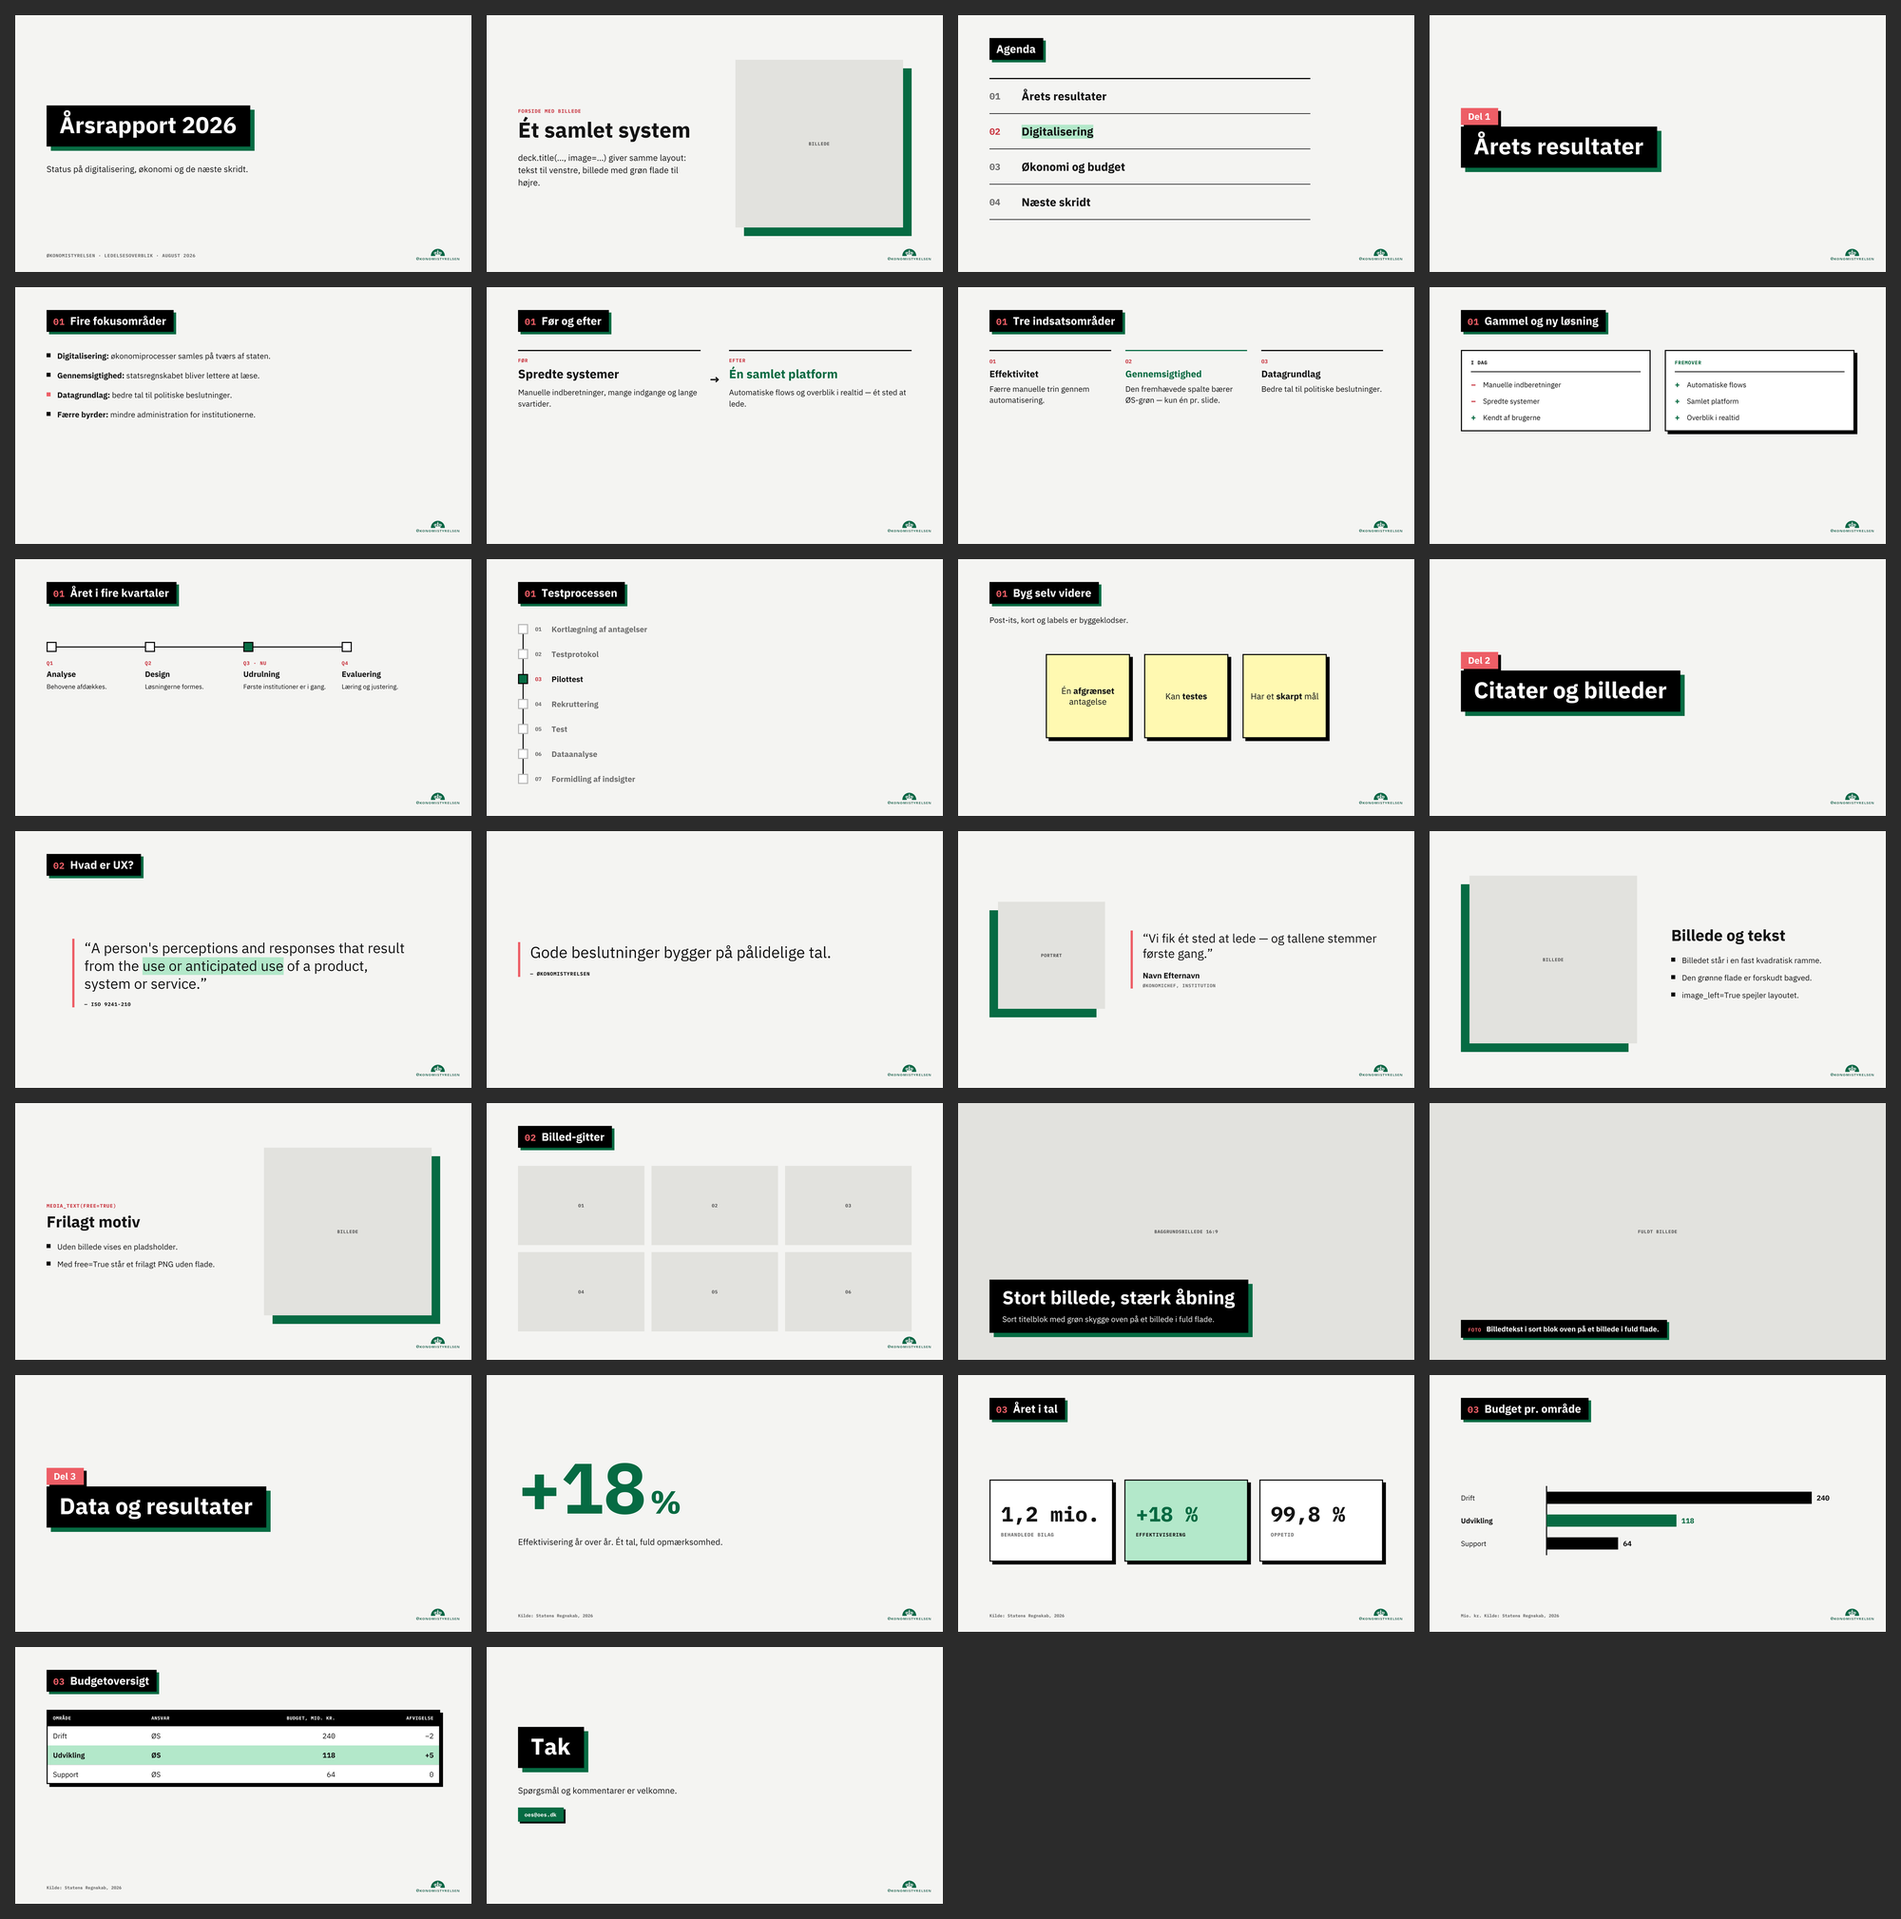
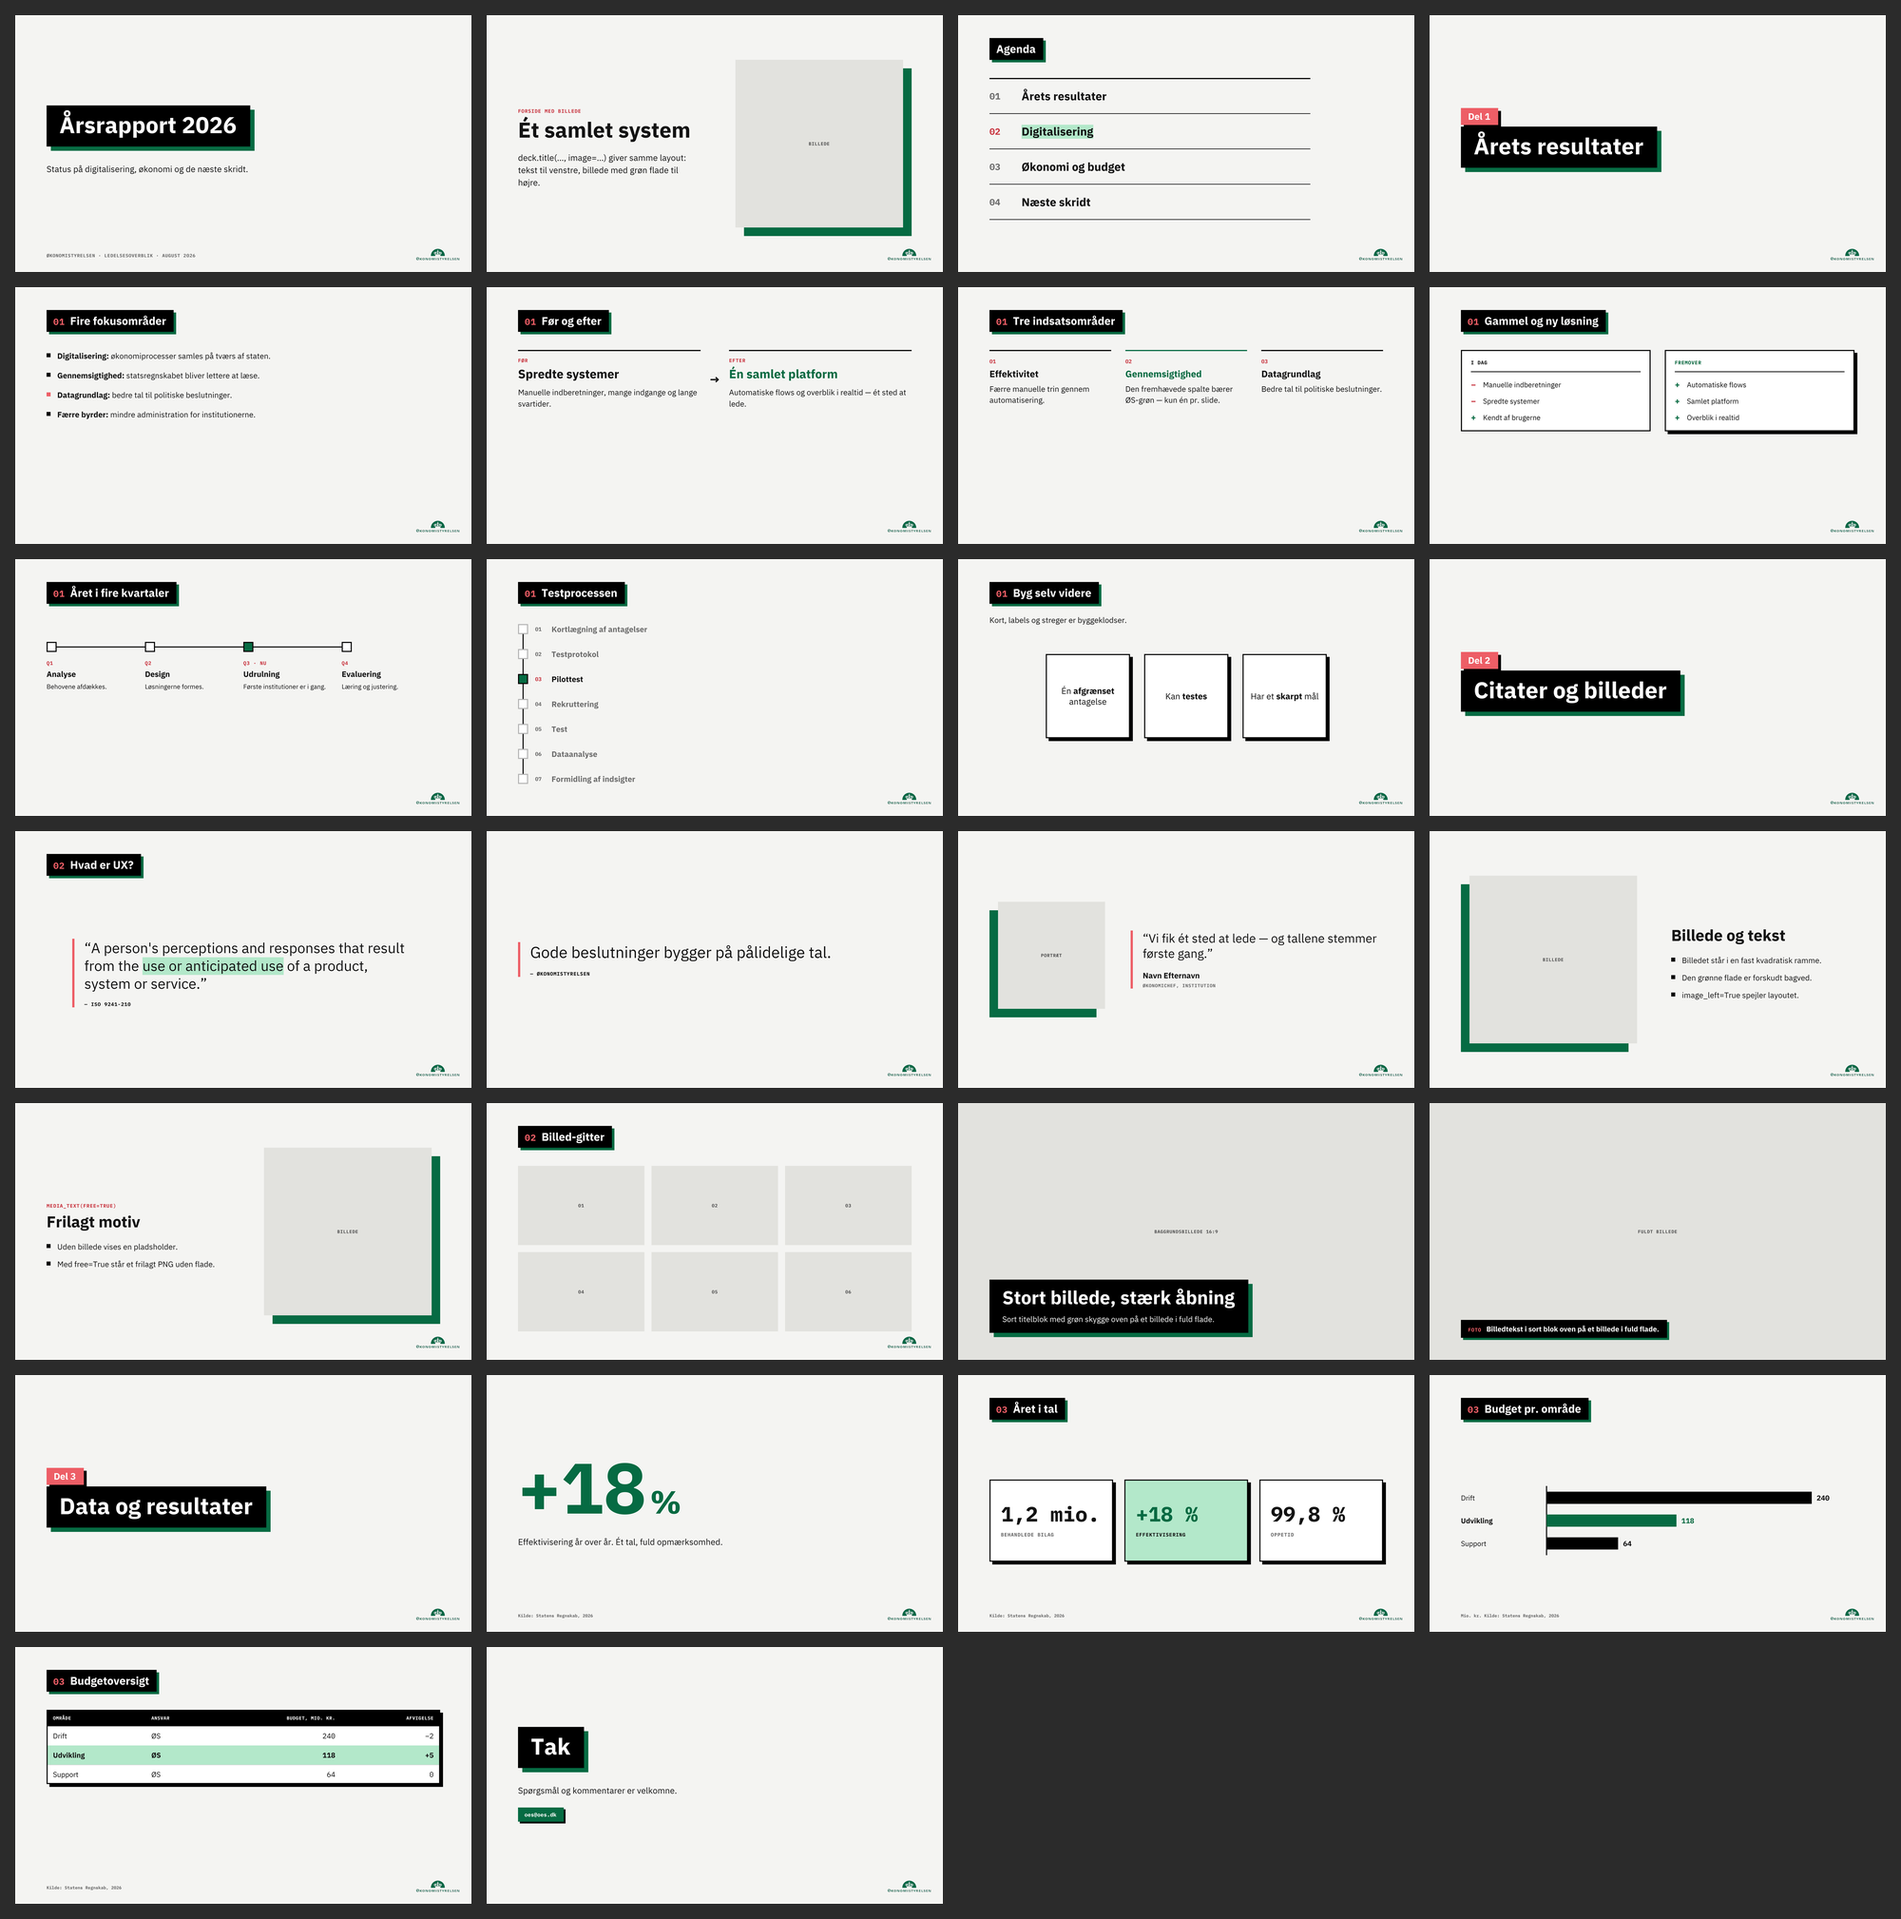
Fjern post-its: byggeklods, farve-token og galleri-eksempel
Galleriets 'Byg selv videre'-slide viser nu hvide kort i stedet.

Changed region(s): [[0.527, 0.3122, 0.713, 0.4058]]

diff --git a/template.html b/template.html
@@ -133,14 +133,14 @@
         </ol>
       </section>
 
-      <!-- 11. BYG SELV — titel + forklaring + byggeklodser (post-its, kort, chips) -->
+      <!-- 11. BYG SELV — titel + forklaring + byggeklodser (kort, chips) -->
       <section class="slide slide--content">
         <h2 class="slide-title">Byg selv videre</h2>
-        <p class="sub">Post-its, kort og labels er byggeklodser.</p>
+        <p class="sub">Kort, labels og streger er byggeklodser.</p>
         <div style="display:flex; gap:40px; justify-content:center; margin-top:20px">
-          <div class="sticky"><span>Én <strong>afgrænset</strong> antagelse</span></div>
-          <div class="sticky"><span>Kan <strong>testes</strong></span></div>
-          <div class="sticky"><span>Har et <strong>skarpt</strong> mål</span></div>
+          <div class="card" style="width:236px; height:236px; padding:21px; display:flex; align-items:center; justify-content:center; text-align:center; font-size:24px; line-height:1.25"><span>Én <strong>afgrænset</strong> antagelse</span></div>
+          <div class="card" style="width:236px; height:236px; padding:21px; display:flex; align-items:center; justify-content:center; text-align:center; font-size:24px; line-height:1.25"><span>Kan <strong>testes</strong></span></div>
+          <div class="card" style="width:236px; height:236px; padding:21px; display:flex; align-items:center; justify-content:center; text-align:center; font-size:24px; line-height:1.25"><span>Har et <strong>skarpt</strong> mål</span></div>
         </div>
       </section>
 

diff --git a/slides.css b/slides.css
@@ -30,7 +30,6 @@
   --hilite: #b3e8ca;            /* lysegrøn: overstregning, fremhævet række/kort */
   --laks: #ed5e66;              /* signal på store flader og på sort */
   --laks-text: #c93a44;         /* laks til tekst på lys grund (4,6:1) */
-  --sticky: #fff9b1;            /* post-it */
 
   --font-sans: 'IBM Plex Sans', system-ui, -apple-system, sans-serif;
   --font-mono: 'IBM Plex Mono', 'SFMono-Regular', Menlo, monospace;
@@ -188,18 +187,6 @@ mark, .hl { background: var(--hilite); color: inherit; padding: 0 0.08em; }
   background: var(--paper);
   border: var(--border) solid var(--black);
   box-shadow: var(--shadow) var(--shadow) 0 var(--black);
-}
-
-/* Post-it */
-.sticky {
-  background: var(--sticky);
-  border: var(--border) solid var(--black);
-  box-shadow: var(--shadow) var(--shadow) 0 var(--black);
-  width: 236px; height: 236px;
-  padding: 21px;
-  display: flex; align-items: center; justify-content: center;
-  text-align: center;
-  font-size: 24px; line-height: 1.25;
 }
 
 /* Kilde-/note-linje nederst til venstre. Virker på enhver slide. */

diff --git a/build_pptx.py b/build_pptx.py
@@ -23,7 +23,7 @@ Brug:
     deck.save("mit-deck.pptx", preview_dir="preview")   # preview_dir er valgfri
 
 Mangler der en slide-type: brug deck.content("Titel") og tegn selv fra
-CONTENT_TOP med byggeklodserne (card, block, chip, square_list, sticky,
+CONTENT_TOP med byggeklodserne (card, block, chip, square_list, picture,
 s.rect/s.line/s.text/s.media) — eller tilføj en ny metode her i samme stil.
 """
 import math
@@ -43,7 +43,6 @@ DIM = "6E6E6E"          # nedtonet tekst, stadig læsbar (4,6:1 på grunden)
 HILITE = "B3E8CA"       # lysegrøn: overstregning, fremhævet række/kort
 RULE = "D6D6D6"         # tynde indre delelinjer
 EMPTY = "E2E2DE"        # billed-pladsholder
-STICKY = "FFF9B1"       # post-it
 BORDER = 3              # kantbredde
 SHADOW = 8              # hård skygge
 GAP = 40                # luft mellem spalter
@@ -152,14 +151,6 @@ def square_list(s, x, y, w, items, gap=18, lh=1.4, size=S_BODY, accent_index=Non
 
 def list_height(w, items, gap=18, lh=1.4, size=S_BODY):
     return sum(layout([para(*rich(it, size), lh=lh)], w - 30)[1] for it in items) + gap * max(len(items) - 1, 0)
-
-
-def sticky(s, x, y, size_px, text, text_size=S_LEAD, off=6):
-    """Post-it med sort kant og hård skygge. text: str, tuple eller liste af run()."""
-    card(s, x, y, size_px, size_px, fill=STICKY, off=off, name="Post-it")
-    inset = size_px * 0.09
-    s.text(x + inset, y + inset, size_px - 2 * inset, size_px - 2 * inset,
-           [para(*rich(text, text_size), align="ctr", lh=1.25)], anchor="ctr")
 
 
 def picture(s, image, x, y, w, h, side=None, focus=(0.5, 0.5), alt="", label="Billede", fit="cover"):

diff --git a/deck.example.py b/deck.example.py
@@ -9,7 +9,7 @@ ud fra indholdet: vælg de slide-typer fortællingen kræver, i din rækkefølge
 import os
 import sys
 
-from build_pptx import CONTENT_TOP, GAP, W, Deck, body, sticky
+from build_pptx import CONTENT_TOP, GAP, W, Deck, body, card, para
 
 HERE = os.path.dirname(os.path.abspath(__file__))
 deck = Deck(deck_title="Økonomistyrelsen · Galleri")
@@ -95,10 +95,13 @@ deck.process(
 )
 
 # Egne layouts: deck.content("Titel") + byggeklodserne. sub = forklaring under titlen.
-s = deck.content("Byg selv videre", sub="Post-its, kort og labels er byggeklodser.")
+s = deck.content("Byg selv videre", sub="Kort, labels og streger er byggeklodser.")
 for i, parts in enumerate((("Én ", "afgrænset", " antagelse"), ("Kan ", "testes", ""), ("Har et ", "skarpt", " mål"))):
-    runs = [body(t, 24, bold=(j == 1)) for j, t in enumerate(parts) if t]
-    sticky(s, W / 2 - 236 * 1.5 - GAP + i * (236 + GAP), CONTENT_TOP + 90, 236, runs, off=8)
+    x = W / 2 - 236 * 1.5 - GAP + i * (236 + GAP)
+    card(s, x, CONTENT_TOP + 90, 236, 236)
+    s.text(x + 21, CONTENT_TOP + 111, 194, 194,
+           [para(*[body(t, 24, bold=(j == 1)) for j, t in enumerate(parts) if t], align="ctr", lh=1.25)],
+           anchor="ctr")
 
 # ---- Del 2: citater og billeder ----
 deck.section("Citater og billeder", num="02")

diff --git a/verify.py b/verify.py
@@ -325,7 +325,7 @@ def check_parity():
               "css %gpx  vs  pptx %gpx" % (pad, bp.TITLE_PAD[1]))
 
     for css_name, py_name in (("ground", "GROUND"), ("brand", "BRAND"), ("hilite", "HILITE"), ("laks", "LAKS"),
-                              ("laks-text", "LAKS_TEXT"), ("dim", "DIM"), ("ink", "INK"), ("sticky", "STICKY"),
+                              ("laks-text", "LAKS_TEXT"), ("dim", "DIM"), ("ink", "INK"),
                               ("empty", "EMPTY"), ("rule", "RULE")):
         got = _css_color(css, css_name)
         check("paritet: farven --%s" % css_name, got == getattr(bp, py_name),

diff --git a/PRESENTATIONS.md b/PRESENTATIONS.md
@@ -52,7 +52,6 @@ flade forskudt bagved, IBM Plex Sans til indhold og IBM Plex Mono til alt "syste
 | `HILITE` | `#B3E8CA` | Lysegrøn overstregning i tekst, fremhævet tabelrække / nøgletalskort |
 | `LAKS` | `#ED5E66` | Signal på **store flader og på sort**: kapitel-label, citatstreg, delnummer i titelblokken |
 | `LAKS_TEXT` | `#C93A44` | Laks til **tekst på lys grund**: mono-labels, numre, negative tal (`LAKS` har kun 3:1 der) |
-| `STICKY` | `#FFF9B1` | Kun post-its |
 
 - **Grøn er det fremhævede, laks er systemets stemme.** Fremhæv højst ét element pr. slide.
 - Gul bruges ikke længere som fremhævning (den gamle `#FEF3C7`) — brug `HILITE`.
@@ -167,11 +166,11 @@ brugerens egne. Har du kun tal uden kilde, så spørg efter kilden.
 
 ## Byg selv — byggeklodserne
 
-Når ingen slide-type passer (diagrammer, modeller, post-it-øvelser):
+Når ingen slide-type passer (diagrammer, modeller):
 
 ```python
 from build_pptx import (Deck, CONTENT_TOP, CONTENT_BOT, PAD_X, W, BLACK, BRAND, LAKS_TEXT, DIM, INK,
-                        card, block, chip, chip_w, square_list, sticky, picture,
+                        card, block, chip, chip_w, square_list, picture,
                         mono, num, head, body, para)
 
 s = deck.content("Double Diamond")            # titelblok + tom flade fra CONTENT_TOP
@@ -181,7 +180,6 @@ s.ellipse(x, y, w, h, fill=BRAND, line=BLACK, lw=3)
 s.text(x, y, w, h, [para(mono("Label", 12, DIM), align="ctr")])
 chip(s, x, y, "Problem")                      # lille sort label
 card(s, x, y, w, h)                           # hvid boks, sort kant, hård skygge
-sticky(s, x, y, 236, [body("Er "), body("nem", bold=True), body(" at bruge")])
 square_list(s, x, y, w, ["Punkt 1", ("Fed: ", "resten")])
 picture(s, "foto.jpg", x, y, w, h, side="right", alt="…")             # med grøn flade
 ```
@@ -212,7 +210,7 @@ i hver genereret .pptx** (som EOT — en rå TTF giver fejl i PowerPoints font-d
 ## Don'ts
 
 - ❌ Ingen grøn accent-streg under overskrifter (den gamle stil) — titlen *er* blokken.
-- ❌ Ingen grønne eller sorte helflade-slides. Ingen gule flader (kun post-its).
+- ❌ Ingen grønne eller sorte helflade-slides. Ingen gule flader.
 - ❌ Ingen kant om billeder, ingen blur-skygger, ingen gradienter, ingen runde hjørner.
 - ❌ Ingen eyebrow/kicker over en titelblok. (Over en *fri* overskrift ved et billede er den fin.)
 - ❌ Ikke to titelblokke på én slide, og ikke titelblok + billede med grøn flade i `media_text`.

diff --git a/CLAUDE.md b/CLAUDE.md
@@ -37,9 +37,9 @@ De er kodet ind i `build_pptx.py` og `slides.css`. **Brug metoderne — placér 
 - ❌ Lav ikke en kopi af galleriet med samme slides og rækkefølge. Brug ikke alle typer.
 - ✅ Start fra indholdet: find budskabet og fortællingen, og vælg derudfra hvilke typer,
   hvor mange slides og hvilken rækkefølge.
-- ✅ **Opfind nye layouts** når indholdet kræver det (diagrammer, modeller, post-it-øvelser):
+- ✅ **Opfind nye layouts** når indholdet kræver det (diagrammer, modeller):
   `s = deck.content("Titel")` og tegn fra `CONTENT_TOP` med byggeklodserne (`card`, `block`,
-  `chip`, `square_list`, `sticky`, `picture`, `s.line/rect/ellipse/path/text`). Se afsnittet
+  `chip`, `square_list`, `picture`, `s.line/rect/ellipse/path/text`). Se afsnittet
   "Byg selv" i `PRESENTATIONS.md`.
 - ✅ Byg modeller op slide for slide (samme layout, ét nyt element) i stedet for animation.
 

diff --git a/README.md b/README.md
@@ -37,7 +37,7 @@ kan tjekkes uden PowerPoint. `save()` advarer, hvis tekst ikke kan være i sin b
 
 | Fil | Hvad |
 |---|---|
-| `build_pptx.py` | **Stilen:** tokens, byggeklodser (`card`, `block`, `chip`, `square_list`, `sticky`, `picture`) og `Deck` med alle slide-typer |
+| `build_pptx.py` | **Stilen:** tokens, byggeklodser (`card`, `block`, `chip`, `square_list`, `picture`) og `Deck` med alle slide-typer |
 | `oes_pptx.py` | **Motoren:** elementer, tekst-ombrydning, .pptx-skrivning, PNG-preview, font-indlejring |
 | `deck.example.py` | Galleriet i PPTX-form → `example.pptx` |
 | `template.html` | Galleriet i HTML-form |
